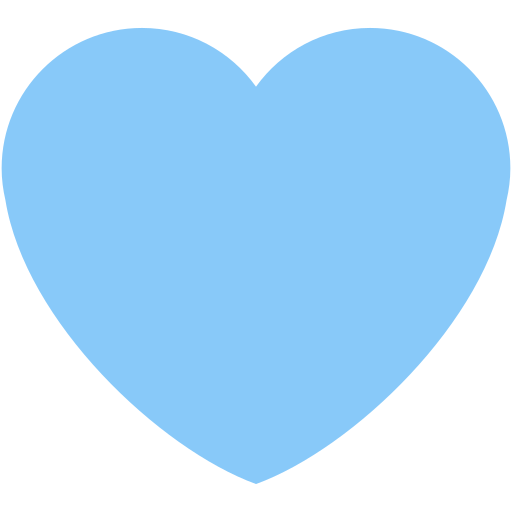
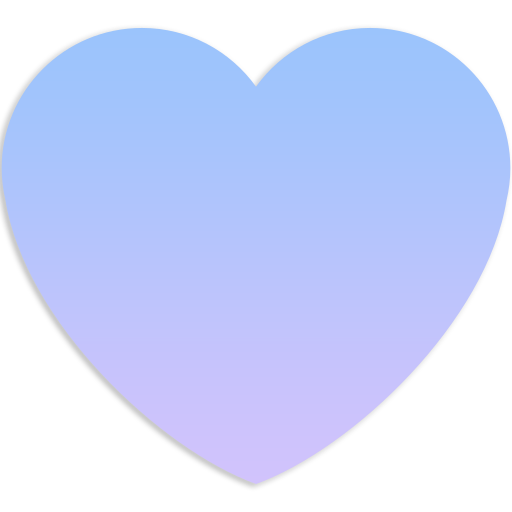
Add files via upload

diff --git a/styles.css b/styles.css
@@ -42,122 +42,124 @@ body {
     height: 55px;
     transform: translateY(25%);
     user-select: none;
+
+
 }
 
 header {
-    color: honeydew;
-    font-size: 250%;
-    font-family: "Afacad", sans-serif;
-    margin-bottom: 0;
-    user-select: none;
+color: honeydew;
+font-size: 250%;
+font-family: "Afacad", sans-serif;
+margin-bottom: 0;
+user-select: none;
 }
 
 .maeko {
-    text-shadow: #818181;
-    background-color: #bdbdbd;
-    background-image: linear-gradient(45deg, #ffffff, #bdbdbd);
-    background-size: 100%;
-    -webkit-background-clip: text;
-    -webkit-text-fill-color: transparent;
+text-shadow: #818181;
+background-color: #bdbdbd;
+background-image: linear-gradient(45deg, #A3C0F4FF, #e8e8e8);
+background-size: 100%;
+-webkit-background-clip: text;
+-webkit-text-fill-color: transparent;
 }
 
 .dot {
-    color: honeydew;
+color: honeydew;
 }
 
 .dotch {
-    background-color: #77cdcd;
-    background-image: linear-gradient(45deg, #a3c0f4, #118cda);
-    background-size: 100%;
-    -webkit-background-clip: text;
-    -webkit-text-fill-color: transparent;
+background-color: #77cdcd;
+background-image: linear-gradient(#76aaff, #fa9cff, #a199ff);
+background-size: 100%;
+-webkit-background-clip: text;
+-webkit-text-fill-color: transparent;
 }
 
 .prn {
-    display: inline-block;
-    font-size: 25%;
-    background-color: #ffffff;
-    background-image: linear-gradient(45deg, #bbbbbb, #818181);
-    background-size: 100%;
-    -webkit-background-clip: text;
-    -webkit-text-fill-color: transparent;
+display: inline-block;
+font-size: 25%;
+background-color: #ffffff;
+background-image: linear-gradient(45deg, #bbbbbb, #818181);
+background-size: 100%;
+-webkit-background-clip: text;
+-webkit-text-fill-color: transparent;
 }
 
 .text {
-    font-size: 20px;
+font-size: 20px;
 }
 
 .flag1 {
-    height: 30px;
-    transform: translateY(20%);
+height: 30px;
+transform: translateY(20%);
 }
 
 .lh,
 .contact {
-    font-size: 100%;
+font-size: 100%;
 }
 
 .dd {
-    background-color: #305e95;
-    background-image: linear-gradient(45deg, #3e7b7e, #00f5ff);
-    background-size: 100%;
-    -webkit-background-clip: text;
-    -webkit-text-fill-color: transparent;
-    user-select: none;
+background-color: #ffffff;
+background-image: linear-gradient(90deg, #7fbdfb, #e780ff);
+background-size: 100%;
+-webkit-background-clip: text;
+-webkit-text-fill-color: transparent;
+user-select: none;
 }
 
 .slash {
-    color: gray;
-    user-select: none;
+color: gray;
+user-select: none;
 }
 
 a:link {
-    text-decoration: none;
-    color: honeydew;
+text-decoration: none;
+color: honeydew;
 }
 
 .socials a:link {
-    text-decoration: none;
-    color: honeydew;
+text-decoration: none;
+color: honeydew;
 }
 
 a:visited {
-    text-decoration: none;
-    color: honeydew;
+text-decoration: none;
+color: honeydew;
 }
 
 .socials a:hover {
-    text-decoration: underline;
-    color: #a3c0f4;
-    transition: all .4s;
-    -moz-transition: all .4s;
-    -webkit-transition: all .4s;
-    -o-transition: all .4s;
+text-decoration: underline;
+color: #a3c0f4;
+transition: all .4s;
+-moz-transition: all .4s;
+-webkit-transition: all .4s;
+-o-transition: all .4s;
 }
 
 .mail {
-    color: honeydew;
+color: honeydew;
 }
 
 .at {
-    color: #989898;
-    position: relative;
-    top: 2px;
+color: #989898;
+position: relative;
+top: 2px;
 }
 
 .mail:hover{
-    text-decoration: underline;
-    transition: all .4s;
-    -moz-transition: all .4s;
-    -webkit-transition: all .4s;
-    -o-transition: all .4s;
+text-decoration: underline;
+transition: all .4s;
+-moz-transition: all .4s;
+-webkit-transition: all .4s;
+-o-transition: all .4s;
 
 }
 /*
 .flandre {
-    position: fixed;
-    bottom: 0;
-    right: 0;
-    pointer-events: none;
+position: fixed;
+bottom: 0;
+right: 0;
+pointer-events: none;
 }
- */
+*/

diff --git a/index.html b/index.html
@@ -11,7 +11,8 @@
     <link rel="icon" type="image/x/icon" href="heart.ico">
 </head>
 <body>
-<header><img class="heart" src="img/heart-b.png" alt="blue heart"> <a class="maeko">maeko</a><span class="dot">.</span><span class="dotch">ch</span> <a class="prn"><span >(he/him)</span></a>
+<header>
+    <img class="heart" src="img/heart-b.png" alt="blue heart"> <a class="maeko">maeko</a><span class="dot">.</span><span class="dotch">ch</span> <a class="prn"><span >(he/him)</span></a>
 </header>
 <div class="text">
     <a>18 y.o tourney-player, studying as an IT-assistant. from <img class="flag1" src="img/flag-de.png" alt="flag of germany"></a>
